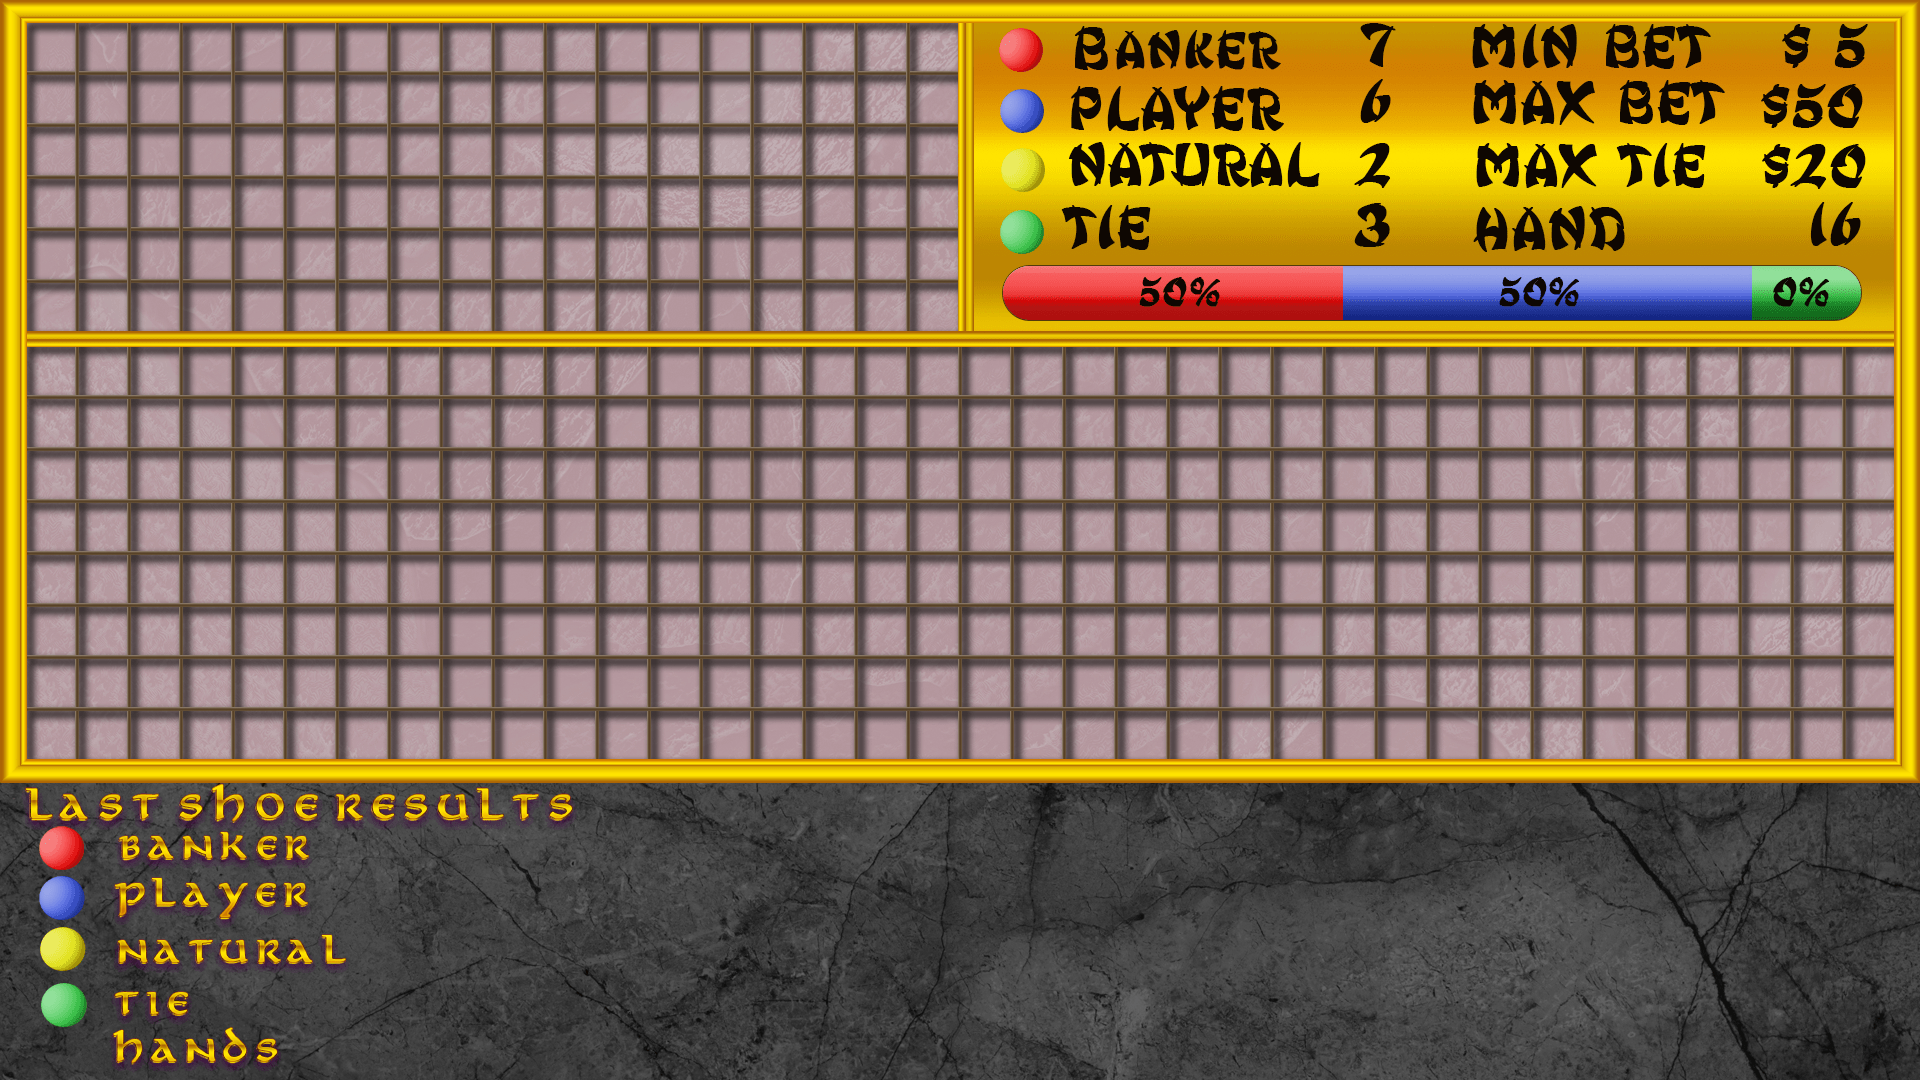
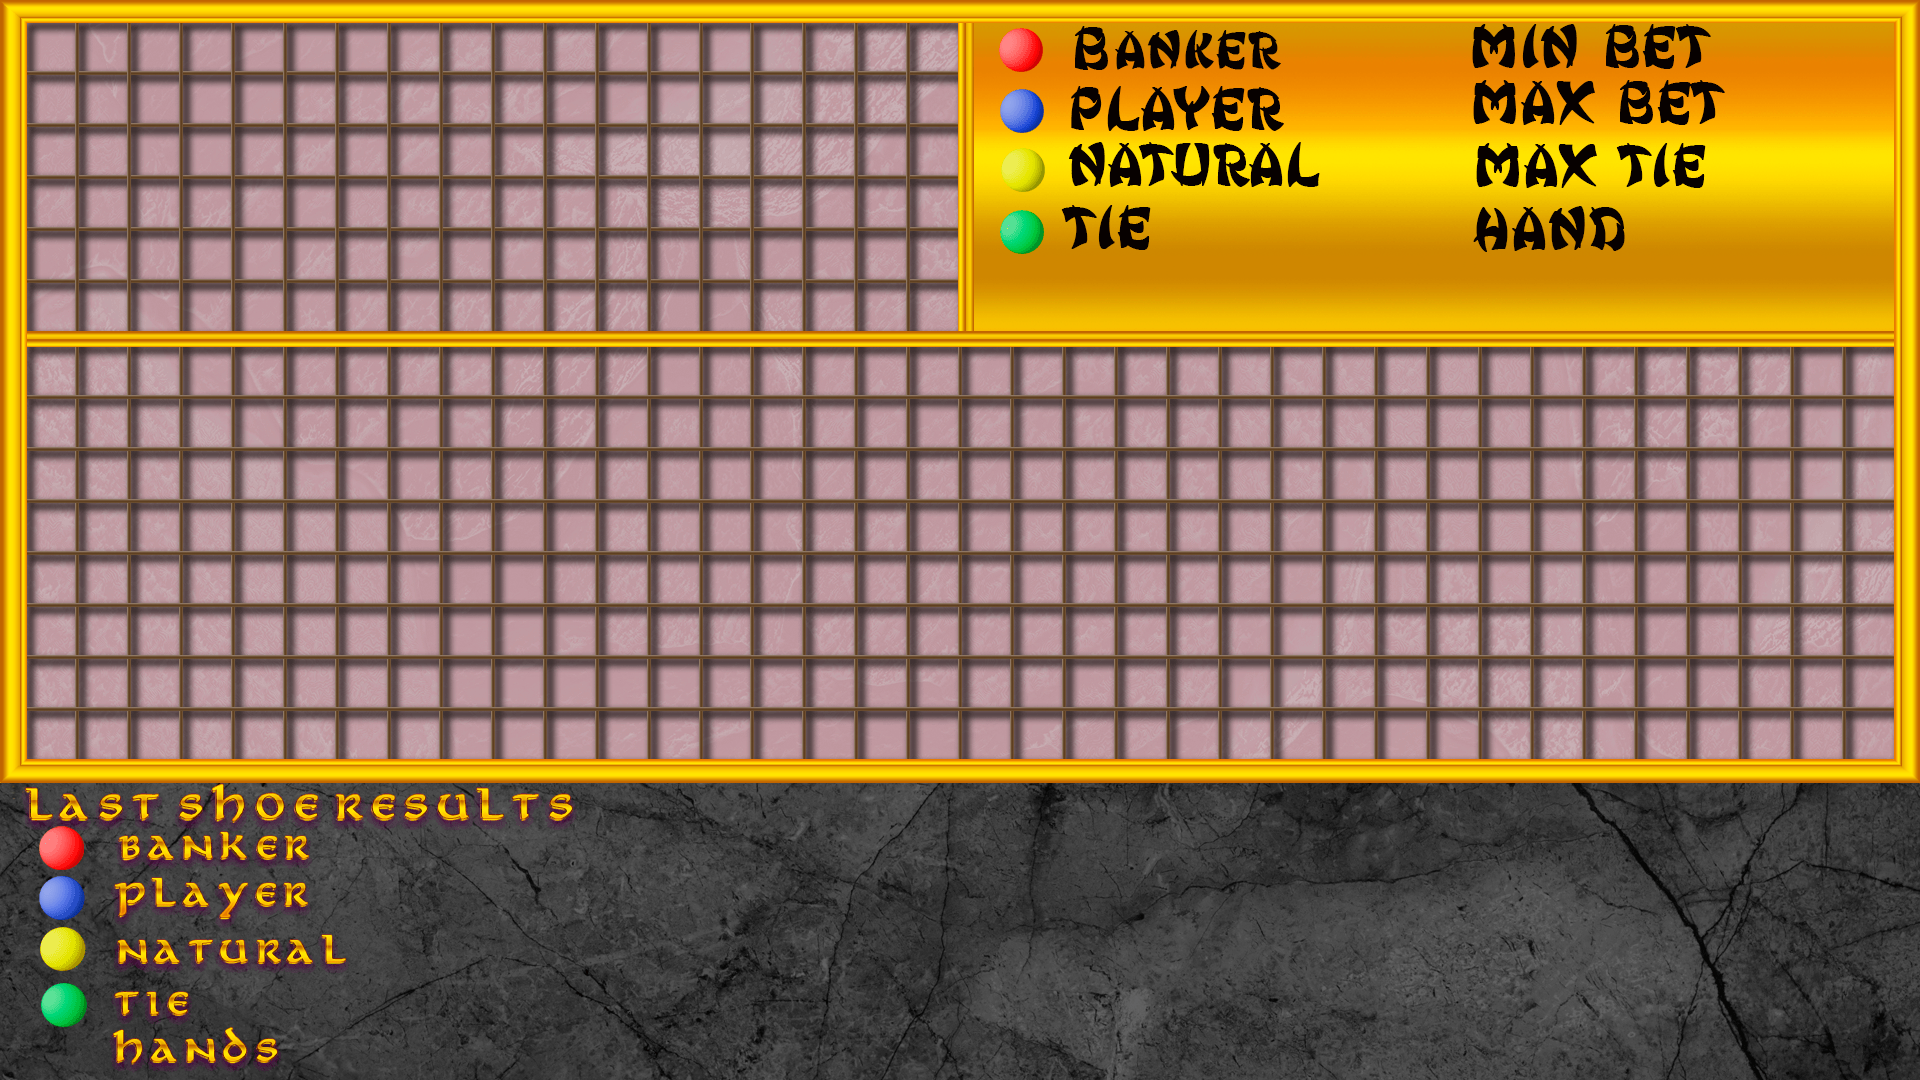
Implemented percentage bar functionality

Changed region(s): [[0.5, 0.0306, 1.0, 0.3056], [0.0, 0.8556, 0.0625, 0.9472], [0.0312, 0.7639, 0.0625, 0.7944]]

diff --git a/src/App.jsx b/src/App.jsx
@@ -1,12 +1,15 @@
 import Game from './components/Game.jsx'
 import Control from './components/Control.jsx'
-import { useRef, useState } from 'react'
+import { useEffect, useReducer, useRef, useState } from 'react'
 
 function App() {
 
   const [cellsOfTopInGame, setCellsOfTopInGame] = useState([])
   const [cellsOfBottomInGame, setCellsOfBottomInGame] = useState([])
+  const [ignored, forceUpdate] = useReducer(x => x + 1, 0);
+
   const currentMatch = useRef(0)
+
   const columnOfTop = useRef(0)
   const lineOfTop = useRef(0)
 
@@ -29,10 +32,30 @@ function App() {
 
   const X_STARTING_POS_OF_CELL = 2.2
 
+  /// #### Bar Variables
+
+  const numberOfBankerInGame = useRef(0)
+  const numberOfPlayerInGame = useRef(0)
+  const numberOfTieInGame = useRef(0)
+  const numberOfBallsInGame = useRef(0)
+
+  const percentOfBankerInGame = useRef(0)
+  const percentOfPlayerInGame = useRef(0)
+  const percentOfTieInGame = useRef(0)
+
+  const percentOfBankerForBar = useRef(0)
+  const percentOfPlayerForBar = useRef(0)
+  const percentOfTieForBar = useRef(0)
+
+
   const updateCurrentMatch = (newImage) => {
 
     if (currentMatch.current > 107) return
 
+    if (newImage !== 4) {
+      numberOfBallsInGame.current = numberOfBallsInGame.current + 1
+      updateBar(newImage, numberOfBallsInGame.current)
+    }
     if (currentMatch.current === 0) {
 
       /// ##### Top Cells
@@ -157,7 +180,7 @@ function App() {
 
         }
 
-        console.log(columnOfBottom.current)
+        // console.log(columnOfBottom.current)
 
         // if (columnOfBottom.current + 1 >= 35) {
         //   columnOfBottom.current = -1
@@ -189,15 +212,85 @@ function App() {
 
 
     }
-
     currentMatch.current = currentMatch.current + 1
-
   }
+
+
+  const updateBar = (newBall = 0, numberOfBallsInGame = 0, isFirstRender = false) => {
+
+
+    switch (newBall) {
+      case 1:
+        numberOfBankerInGame.current = numberOfBankerInGame.current + 1
+        break;
+      case 2:
+        numberOfPlayerInGame.current = numberOfPlayerInGame.current + 1
+        break;
+      case 3:
+        numberOfTieInGame.current = numberOfTieInGame.current + 1
+        break;
+    }
+
+    percentOfBankerInGame.current = numberOfBallsInGame != 0 ? (numberOfBankerInGame.current * 100) / numberOfBallsInGame : 0
+    percentOfPlayerInGame.current = numberOfBallsInGame != 0 ? (numberOfPlayerInGame.current * 100) / numberOfBallsInGame : 0
+    percentOfTieInGame.current = numberOfBallsInGame != 0 ? (numberOfTieInGame.current * 100) / numberOfBallsInGame : 0
+
+    percentOfBankerForBar.current = percentOfBankerInGame.current
+    percentOfPlayerForBar.current = percentOfPlayerInGame.current
+    percentOfTieForBar.current = percentOfTieInGame.current
+
+    let numberOfZero = 0
+    let nonZeroNumber = 0
+
+    if (percentOfBankerInGame.current === 0) numberOfZero++; else nonZeroNumber++
+    if (percentOfPlayerInGame.current === 0) numberOfZero++; else nonZeroNumber++
+    if (percentOfTieInGame.current === 0) numberOfZero++; else nonZeroNumber++
+
+    if (percentOfBankerInGame.current === 0 || percentOfPlayerInGame.current === 0 || percentOfTieInGame.current === 0) {
+
+      percentOfBankerInGame.current = percentOfBankerInGame.current === 0 ? 10 : percentOfBankerInGame.current - (numberOfZero * (10 / nonZeroNumber))
+      percentOfPlayerInGame.current = percentOfPlayerInGame.current === 0 ? 10 : percentOfPlayerInGame.current - (numberOfZero * (10 / nonZeroNumber))
+      percentOfTieInGame.current = percentOfTieInGame.current === 0 ? 10 : percentOfTieInGame.current - (numberOfZero * (10 / nonZeroNumber))
+
+      if (percentOfBankerInGame.current === 10) percentOfBankerForBar.current = 0
+      if (percentOfPlayerInGame.current === 10) percentOfPlayerForBar.current = 0
+      if (percentOfTieInGame.current === 10) percentOfTieForBar.current = 0
+
+      if (numberOfZero === 3) {
+        percentOfBankerInGame.current = 33.3399
+        percentOfPlayerInGame.current = 33.3399
+        percentOfTieInGame.current = 33.3399
+
+        percentOfBankerForBar.current = 0
+        percentOfPlayerForBar.current = 0
+        percentOfTieForBar.current = 0
+      }
+    }
+    if (isFirstRender) forceUpdate()
+  }
+
+  useEffect(() => {
+    updateBar(0, 0, true)
+  }, [])
+
 
   return (
     <>
       <Game cellsOfTopInGame={cellsOfTopInGame} cellsOfBottomInGame={cellsOfBottomInGame} />
-      <Control updateCurrentMatch={updateCurrentMatch} />
+
+      <div className="relative top-[-50.9em] left-[62.7em]">
+        <div className="overflow-hidden w-[858px] h-[54px] text-3xl flex rounded-[30px] border-solid border-slate-900 border-[1px]">
+          <div style={{ width: `${percentOfBankerInGame.current}%` }} className="rounded-l-[30px] redBar shadow-none flex flex-col text-center whitespace-nowrap text-black justify-center">{`${Math.round(percentOfBankerForBar.current)}%`}</div>
+          <div style={{ width: `${percentOfPlayerInGame.current}%` }} className="blueBar shadow-none flex flex-col text-center whitespace-nowrap text-black justify-center">{`${Math.round(percentOfPlayerForBar.current)}%`}</div>
+          <div style={{ width: `${percentOfTieInGame.current}%` }} className="rounded-r-[30px] greenBar shadow-none flex flex-col text-center whitespace-nowrap text-black justify-center">{`${Math.round(percentOfTieForBar.current)}%`}</div>
+        </div>
+      </div>
+
+      <button onClick={() => updateCurrentMatch(1)} className="text-white rounded-2xl text-3xl w-[120px] h-[50px] mx-2 bg-red-600 hover:bg-red-400 hover:text-black transition-colors">Banker</button>
+      <button onClick={() => updateCurrentMatch(2)} className="text-white rounded-2xl text-3xl w-[120px] h-[50px] mx-2 bg-blue-600 hover:bg-blue-400 hover:text-black transition-colors">Player</button>
+      <button onClick={() => updateCurrentMatch(3)} className="text-white rounded-2xl text-3xl w-[120px] h-[50px] mx-2 bg-green-500 hover:bg-green-300 hover:text-black transition-colors">Tie</button>
+      <button onClick={() => updateCurrentMatch(4)} className="text-white rounded-2xl text-3xl w-[120px] h-[50px] mx-2 bg-yellow-500 hover:bg-yellow-300 hover:text-black transition-colors">Natural</button>
+
       <button
         onClick={() => {
           setCellsOfTopInGame([])
@@ -205,11 +298,9 @@ function App() {
           columnOfTop.current = 0
           lineOfTop.current = 0
         }}
-        type="button"
-        className="tw-btn-red"
-      >LIMPAR!!!!
+        className="text-white rounded-2xl text-3xl w-[120px] h-[50px] mx-8 bg-sky-600 hover:bg-red-400 hover:text-black transition-colors"
+      >LIMPAR
       </button>
-
     </>
   )
 }

diff --git a/src/components/Control.jsx b/src/components/Control.jsx
@@ -1,31 +1,11 @@
-
-
 function Control(props) {
-
-  const updateCurrentMatchToBanker = () => {
-    props.updateCurrentMatch(1)
-  }
-
-  const updateCurrentMatchToPlayer = () => {
-    props.updateCurrentMatch(2)
-  }
-
-  const updateCurrentMatchToNatural = () => {
-    props.updateCurrentMatch(3)
-  }
-
-  const updateCurrentMatchToTieHands = () => {
-    props.updateCurrentMatch(4)
-  }
-
-
 
   return (
     <>
-      <button onClick={updateCurrentMatchToBanker} type="button" className="tw-btn-red">Banker</button>
-      <button onClick={updateCurrentMatchToPlayer} type="button" className="tw-btn-blue">Player</button>
-      <button onClick={updateCurrentMatchToNatural} type="button" className="btn btn-warning">Natural</button>
-      <button onClick={updateCurrentMatchToTieHands} type="button" className="btn btn-success">Tie Hands</button>
+      <button onClick={() => props.updateCurrentMatch(1)} className="text-white rounded-2xl text-3xl w-[120px] h-[50px] mx-2 bg-red-600 hover:bg-red-400 hover:text-black transition-colors">Banker</button>
+      <button onClick={() => props.updateCurrentMatch(2)} className="text-white rounded-2xl text-3xl w-[120px] h-[50px] mx-2 bg-blue-600 hover:bg-blue-400 hover:text-black transition-colors">Player</button>
+      <button onClick={() => props.updateCurrentMatch(3)} className="text-white rounded-2xl text-3xl w-[120px] h-[50px] mx-2 bg-green-500 hover:bg-green-300 hover:text-black transition-colors">Tie</button>
+      <button onClick={() => props.updateCurrentMatch(4)} className="text-white rounded-2xl text-3xl w-[120px] h-[50px] mx-2 bg-yellow-500 hover:bg-yellow-300 hover:text-black transition-colors">Natural</button>
     </>
   )
 

diff --git a/src/styles/global.css b/src/styles/global.css
@@ -2,28 +2,62 @@
 @tailwind components;
 @tailwind utilities;
 
-.tw-btn {
-  padding: 0.5rem 1rem;
-  border-radius: 0.25rem;
-  font-weight: 600;
-}
-.tw-btn-blue {
-  background-color: #3490dc;
-  color: #fff;
-}
-.tw-btn-blue:hover {
-  background-color: #2779bd;
-}
-.tw-btn-red {
-  background-color: #e3342f;
-  color: #fff;
-}
-.tw-btn-red:hover {
-  background-color: #cc1f1a;
+.redBar {
+  background-image: linear-gradient(
+    #f66262,
+    #f66262,
+    #f65a59,
+    #f65a59,
+    #f24e4d,
+    #f24e4d,
+    #ee4342,
+    #ee4342,
+    #d71312,
+    #c10e0c,
+    #c00e0c,
+    #b21311,
+    #af100f,
+    #ae0c0b
+  );
 }
 
-/* .background {
-  background-image: url(" ../../../../assets/background.png");
-  background-position: left top;
-  background-size: cover;
-} */
+.blueBar {
+  background-image: linear-gradient(
+    #909ee7,
+    #7c8ce4,
+    #7487e4,
+    #697ee4,
+    #6474e4,
+    #576bdb,
+    #475fcc,
+    #4054c0,
+    #344cb4,
+    #203394,
+    #203394,
+    #203394,
+    #203394,
+    #203394,
+    #203394,
+    #203394
+  );
+}
+.greenBar {
+  background-image: linear-gradient(
+    #90df99,
+    #84dc8c,
+    #7cd484,
+    #66cc71,
+    #54c45c,
+    #48bc54,
+    #3cb848,
+    #2cac3c,
+    #1e922c,
+    #14711f,
+    #14711f,
+    #14711f,
+    #14711f,
+    #14711f,
+    #14711f,
+    #14711f
+  );
+}

diff --git a/src/components/Cell.jsx b/src/components/Cell.jsx
@@ -12,8 +12,8 @@ function Cell({ position, image = 0 }) {
     0: EmptyBall,
     1: Banker,
     2: Player,
-    3: Natural,
-    4: TieHands
+    3: TieHands,
+    4: Natural
   }
 
 

diff --git a/tailwind.config.js b/tailwind.config.js
@@ -5,7 +5,7 @@ module.exports = {
     extend: {
       backgroundImage: {
         main: 'url(/src/assets/main-bg.png)'
-      },
+      }
     },
   },
   plugins: [],
